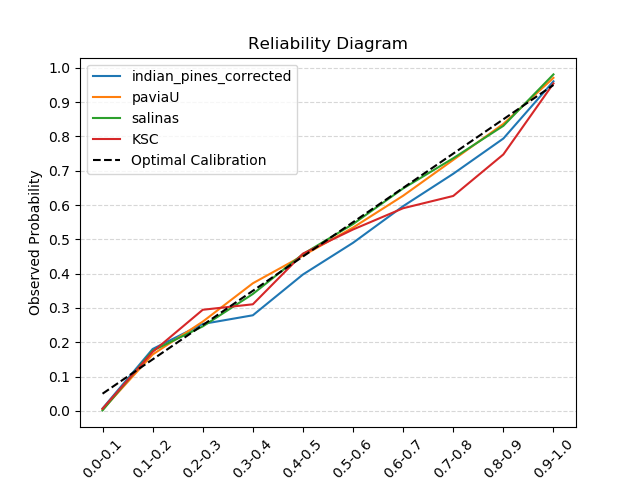
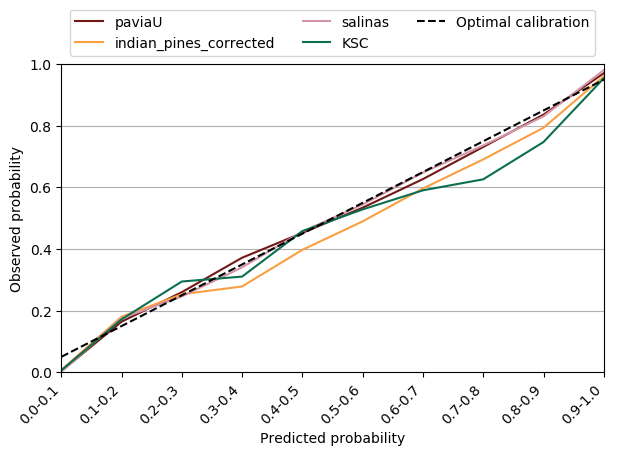
Reliability diagram de plot.py

diff --git a/FPGA_accelerator_for_GBDT/high_performance_processor_python_code_and_data/perform_analysis.py b/FPGA_accelerator_for_GBDT/high_performance_processor_python_code_and_data/perform_analysis.py
@@ -236,32 +236,88 @@ def analyse_entropy(predictions, y_test):
     # Return averages
     return class_H/class_px, class_Ep/class_px, class_H_Ep/class_px
 
-def map_prediction(predictions):
-    """Returns the bayesian predictions and global uncertainties (H)
+# PLOT FUNCTIONS
+# =============================================================================
+
+# Plots colours
+COLOURS = {"indian_pines_corrected": "#FA9F42",
+           "KSC": "#0B6E4F",
+           "paviaU": "#721817",
+           "salinas": "#D496A7"}
+
+def plot_reliability_diagram(output_dir, data, w=7, h=4, colours=COLOURS, num_groups=10):
+    """Generates and saves the `reliability diagram` plot
     
-    This function is implemented to facilitate all the data required
-    for the maps comparisons.
+    It saves the plot in `output_dir` in pdf format with the name
+    `reliability_diagram.png`.
     
     Parameters
     ----------
-    predictions : ndarray
-        Array with the bayesian predictions.
-    
-    Returns
-    -------
-    pred_map : ndarray
-        Array with the averages of the bayesian predictions.
-    test_H : ndarray
-        Array with the global uncertainty (H) values.
+    output_dir : str
+        Path of the output directory. It can be an absolute path or
+        relative from the execution path.
+    data : dict
+        It contains the `reliability diagram` data of each dataset. The
+        key must be the dataset name abbreviation.
+    w : int, optional (default: 7)
+        Width of the plot.
+    h : int, optional (default: 4)
+        Height of the plot.
+    colours : dict, optional (default: COLOURS)
+        It contains the HEX value of the RGB colour of each dataset.
+        The key must be the dataset name abbreviation.
+    num_groups : int, optional (default: 10)
+        Number of groups to divide xticks labels.
     """
     
-    # Calculate the bayesian samples average prediction
-    pred_map = np.mean(predictions, axis=0).argmax(axis=1)
+    # Generate x axis labels and data for the optimal calibration curve
+    p_groups = np.linspace(0.0, 1.0, num_groups + 1)
+    center = (p_groups[1] - p_groups[0])/2
+    optimal = (p_groups + center)[:-1]
+    if num_groups <= 10:
+        labels = ["{:.1f}-{:.1f}".format(p_groups[i], p_groups[i + 1])
+              for i in range(num_groups)]
+    else:
+        labels = ["{:.2f}-{:.2f}".format(p_groups[i], p_groups[i + 1])
+              for i in range(num_groups)]
     
-    # Get the global uncertainty values
-    test_H = _predictive_entropy(predictions)
+    # Xticks
+    xticks = np.arange(len(labels))
     
-    return pred_map, test_H
+    # Generate figure and axis
+    fig, ax = plt.subplots(figsize=(w, h))
+    
+    # Plots
+    for img_name in colours.keys():
+        ax.plot(xticks[:len(data[img_name])], data[img_name], label=img_name,
+                color=colours[img_name])
+    ax.plot(xticks, optimal, label="Optimal calibration", color='black',
+            linestyle='dashed')
+    
+    # Axes labels
+    ax.set_xlabel("Predicted probability")
+    ax.set_ylabel("Observed probability")
+    
+    # Y axis limit
+    ax.set_ylim((0, 1))
+    
+    # X axis limit
+    ax.set_xlim((xticks[0], xticks[-1]))
+    
+    # Rotate X axis labels
+    ax.set_xticks(xticks)
+    ax.set_xticklabels(labels, rotation=45, ha='right')
+    
+    # Grid
+    ax.grid(axis='y')
+    
+    # Legend
+    ax.legend(loc='upper center', ncol=3, bbox_to_anchor=(0.5, 1.2))
+    
+    # Save
+    file_name = "reliability_diagram.png"
+    plt.savefig(os.path.join(output_dir, file_name), bbox_inches='tight')
+    print("\n\nSaved {file_name} in {output_dir}".format(file_name=file_name, output_dir=output_dir))
 
 # PREDICTION FUNCTION
 # =============================================================================
@@ -280,6 +336,9 @@ def get_forest_individual_probabilities(trained_forest, X_test):
 # =============================================================================
 
 def main():
+
+    reliability_dict = {}
+
     # For each image
     for img in IMAGES:
         
@@ -331,18 +390,10 @@ def main():
 
         # Generate reliability diagram data
         reliability_data = reliability_diagram(individual_probabilities, y_test)
-        plt.plot(reliability_data, label=image_name)
-
-    plt.plot([0, 9], [0.05, 0.95], 'k--', label='Optimal Calibration')
-    plt.xlabel("Predicted Probability Group")
-    plt.ylabel("Observed Probability")
-    plt.title("Reliability Diagram")
-    plt.xticks(np.arange(10), [str(i/10.0) + "-" + str((i+1)/10.0) for i in range(10)], rotation=45)
-    plt.yticks(np.arange(0, 1.1, 0.1))
-    plt.grid(axis='y', linestyle='--', alpha=0.5)
-    plt.legend()
-    plt.savefig(ACCURACY_GRAPHICS_DIR + "/reliability_diagram.png")
-    plt.close()
+        reliability_dict[image_name] = reliability_data
+        
+    # Generate reliability diagram plot
+    plot_reliability_diagram(ACCURACY_GRAPHICS_DIR, reliability_dict)
 
 if __name__ == "__main__":
     main()
